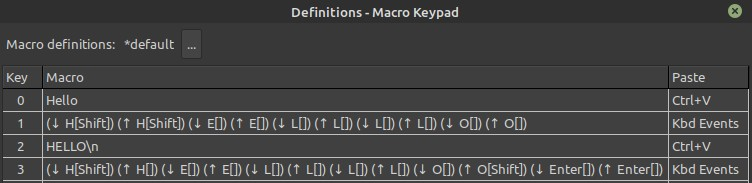
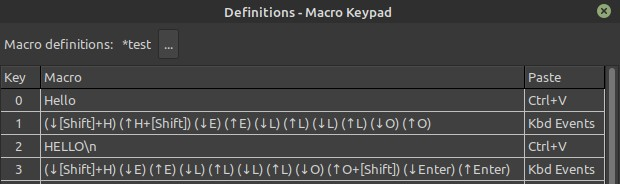
Bump to version 0.8.2

diff --git a/README.md b/README.md
@@ -1,20 +1,17 @@
 
 # *lazmacropad* - a Macro Keypad
 
-**Version 0.8.0**
+**Version 0.8.2**
 
-This project describes a rudimentary macro keypad serially connected to a computer. The keypad is continuously scanned by a microcontroller (an Arduino Nano) which transmits a single letter string or *message* ('0', '1', ...) identifying the pressed key. These *messages* are translated into macros by Lazarus/Free Pascal program running in the background. When the macro is a string it is copied to the system clipboard and then an emulated key combination (Ctrl+V, Shift+Insert...) is injected into the keyboard event queue of the active application to paste the content of the clipboard. Starting with version 0.8.0 is possible to bypass the clipboard and to inject a macro consisting of an array of keyboard events instead.
+This project describes a simple macro keypad serially connected to a computer. The keypad is continuously scanned by a microcontroller (an Arduino Nano) which transmits a single letter string or *message* ('0', '1', ...) identifying the pressed key. These *messages* are translated into macros by Lazarus/Free Pascal program running in the background. When the macro is a string it is copied to the system clipboard and then an emulated key combination (Ctrl+V, Shift+Insert...) is injected into the keyboard event queue of the active application to paste the content of the clipboard. Starting with version 0.8.0 is possible to bypass the clipboard altogether and to inject a macro consisting of an array of keyboard events.
 
 The Lazarus program also allows for editing, saving and loading macro definitions to suit any number of applications on the desktop.
 
 There is a [post about this project](https://sigmdel.ca/michel/program/fpl/macrokeypad/basic_macrokeypad_fr.html) which contains a draft *user manual*. It is an incomplete draft currently available in French only.
 
-**Warning:**  Version 0.8.0 has only been used in Linux Mint 20.1 using the GTK2 widget set. Its first implementation of macros consisting of keyboard events only is a proof of concept and needs considerable reworking. Older versions the macro keypad program were tested and found to run on Linux Mint 20.1 Mate, Mint 21 Mate and Windows 10 although there are some limitations as described below. 
+**Warning:**  Version 0.8.2 has been built in Linux Mint 20.1 MATE using the GTK2 widget set. It has been tested in Linux Mint 20.1. A cursory examination shows that the binary works in Mint 21 MATE and Mint 21 Cinnamon. The program has also been compiled in Windows 10 (64 bit) and it seems to work in that environment although there are some limitations as described below. 
 
 ![screenshot](images/screenshot_0_7_0.jpg)
-
-**If the microcontroller is running an older version of the Arduino sketch, it must be replaced with the newer version released in v0.7.2** (see [6. Accommodating Different Keypads](#6-accommodating-different-keypads)).
-
 
 As of version 0.6.0, *lazmacropad* is a tray application. [Version 0.3.4](releases/tag/v0.3.4) was the last released of the project that featured a normal program.
 
@@ -30,7 +27,7 @@ As of version 0.6.0, *lazmacropad* is a tray application. [Version 0.3.4](releas
     - [2.1.4. Compiler Versions and Linux Widgetsets](#214-compiler-versions-and-linux-widgetsets)
   - [2.2. Windows Requirements](#22-windows-requirements)
 - [3. Macros](#3-macros)
-- [4. Paste Commands](#4-paste-commands)
+- [4. Clipboards and Paste Commands](#4-clipboards-and-paste-commands)
 - [5. Accommodating Different Keypads](#5-accommodating-different-keypads)
 - [6. Acknowledgment](#6-acknowledgment)
 - [7. Licence](#7-licence)
@@ -56,6 +53,9 @@ Note that the Nano is upside down (microcontroller is on the hidden side of the 
 ## 2. Source Code and Prerequisites
 
 [nanoMacroPad.ino](nanoMacroPad/nanoMacroPad.ino) contains the Arduino sketch that runs on the Nano. It requires the [Keypad library](https://playground.arduino.cc/Code/Keypad/) ([GitHub repository](https://github.com/Chris--A/Keypad)) by Mark Stanley and Alexander Brevig. It can be installed with the Arduino IDE library manager.
+
+**If the microcontroller is running an older version of the Arduino sketch, it must be replaced with the newer version released in v0.7.2** (see [6. Accommodating Different Keypads](#6-accommodating-different-keypads)).
+
 
 The source code of the *lazmacropad* object pascal program is in the root directory of the repository. The [images](images/) directory contains the three images shown on this page. None are required to compile the program. 
 
@@ -131,18 +131,18 @@ The source was compiled and tested with two versions of Lazarus in Windows 10:
 - stable: Lazarus 2.2.4 (rev lazarus_2_2_4) FPC 3.2.2 i386-win32-win32/win64
 - trunk: Lazarus 2.3.0 (rev main-2_3-2734-g2f18817fd8) FPC 3.3.1 i386-win32-win32/win64
 
-There are cosmetic problems with the macro definition screen with the binary generated with the stable version of the compiler. The maximum column width of the first column is not respected. While there is a work around, it is not included in the source code because that bug has been removed in the trunk version of the compiler. Because it is a bit more difficult to install the trunk version of the compiler, Windows binaries compiled with the trunk version of the compiler are supplied in the [0.6.0 release](https://github.com/sigmdel/lazmacropad/releases/tag/v0.6.0). Binaries for the latest release are upcoming.
+It is recommended to use the trunk version because cosmetic problems were encountered with the stable version in the macro definition window. Since then, a string grid is used instead of a value list editor so the difference between versions might be moot. 
 
-Note: The Windows version of the `Serial` unit does have a serial connection status variable. Consequently, there will be a log message about a lost connection when running in Windows. Furthermore, selection of the clipboard paste command used internally by the program is ignored in the Windows version. 
+Note: The Windows version of the `Serial` unit does have a serial connection status variable. Consequently, log messages warning of a lost connection will not appear when running in Windows.
 
 ## 3. Macros
 
 There are two types of macros:
 
-  - Strings (UTF8) that are copied to the clipboard and pasted into an application.
+  - Strings that are copied to the clipboard and pasted into an application.
   - Arrays of keyboard events
 
-The UTF8 strings can contain 3 escape sequences
+The strings are UTF8 and can contain 3 escape sequences
 
   -  `\n` will be converted to #13 (RETURN)
   -  `\t` will be converted to #9  (TAB)
@@ -154,9 +154,11 @@ Macros 0 and 1, in the macro definition window shown in the image below, both in
 
 ![](images/macro_defs.jpg)
 
-Note how each key down event (↓) must be followed by a corresponding key up event (↑) otherwise the operating system will generate a sequence of autorepeat key down events. The same applies to the Shift, Ctrl and Alt modifier keys. Macros 2 and 3 are similar to the first two except that they insert the uppercase string `HELLO` followed by a carriage return. Note how the Shift modifier was activated with the `H` key and deactivated with the `O` key, just as most would keep the shift key depressed when entering a few uppercase characters at a keyboard.
+**Notes**
 
-Note also that the virtual keyboard events injected into the keyboard event queue will be translated according to the keyboard layout in current use. So if the layout is the ISO French AZERTY keyboard, then the sequence `(↓ 2[])(↑ 2[])(↓ 7[])(↑ 7[])` will insert `éè` in the focused application. How this is done with an ANSI US (QWERTY) keyboard is not at all clear. Because the `Alt Gr` key is not yet implemented in *lazmacropad*, it is not possible to copy `ô` or `ë` etc. into the focused application with a keyboard event macro. Of course, it is easy to do with a string macro.
+  1. Each key down event (↓) must be followed by a corresponding key up event (↑) otherwise the operating system will generate a sequence of autorepeat key down events. The same applies to the Shift, Ctrl and Alt modifier keys. Macros 2 and 3 are similar to the first two except that they insert the uppercase string `HELLO` followed by a carriage return. Note how the Shift modifier was activated with the `H` key and deactivated with the `O` key, just as most would keep the shift key depressed when entering a few uppercase characters at a keyboard.
+
+  1. The virtual keyboard events injected into the keyboard event queue will be translated according to the keyboard layout in current use. So if the layout is the ISO French AZERTY keyboard, then the sequence `(↓ 2)(↑ 2)(↓ 7)(↑ 7)` will insert `éè` in the focused application. How this is done with an ANSI US (QWERTY) keyboard is not at all clear. Because the `Alt Gr` key is not yet implemented in *lazmacropad*, it is not possible to copy `ô` or `ë` etc. into the focused application with a keyboard event macro. That may never be done as it is easy to do with a string macro which was the primary reason for creating this project.
 
 ## 4. Clipboards and Paste Commands
 
@@ -166,7 +168,7 @@ Each macro must be assigned a `Paste Command` from the following list:
 
   1. `Ctrl+V`              
   2. `Shift+Insert`
-  3. `Custom`    (currently `Shift+Ctrl+V`)
+  3. `Custom`    (`Shift+Ctrl+V` by default)
   4. `None`
   5. `Kbd Events`
 
@@ -178,7 +180,7 @@ If a string macro ends with the sequence '\n' and the Shift+Insert combination i
 
 > (#) This works well in Mint 20.1 using GTK2. Cursory tests of *lazmacropad* (GTK2) in a LiveUSB version of Mint 21 MATE, showed that the v0.7.4 handling of trailing '\n' when using Shift+Insert does work as expected. Why this does not work in a virtual machine is not clear.
 
-There is no primary selection in Windows but Shift+Insert does work just as Ctrl+V when used from the physical keyboard. So far, injecting Shift+Insert in Windows has not worked. ~~Consequently *lazmacropad* uses Ctrl+V no matter what keyboard shortcut is specified when it is running in Windows.~~
+There is no primary selection in Windows. While the shortcuts Ctrl+V and Shift+Insert paste the content of the clipboard work when entered using a physical keyboard, using Shift+Insert as a paste command does not work when *lazmacropad* is running in Windows.
 
 ## 5. Accommodating Different Keypads
 
